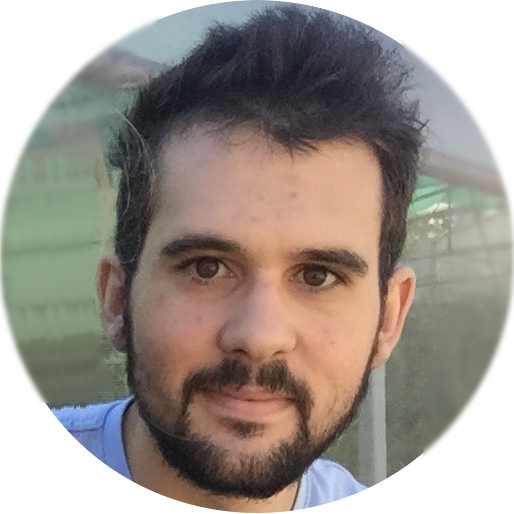
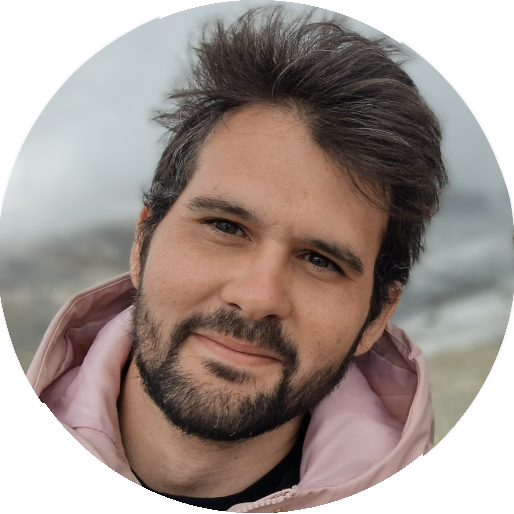
update

diff --git a/index.html b/index.html
@@ -29,7 +29,7 @@
   
     
   
-  <meta name="description" content="Research Associate">
+  <meta name="description" content="Research Engineer">
 
   
   <link rel="alternate" hreflang="en-us" href="https://dune-jr.github.io/">
@@ -121,7 +121,7 @@
   <meta property="og:site_name" content="Jordy Ruiz">
   <meta property="og:url" content="https://dune-jr.github.io/">
   <meta property="og:title" content="Jordy Ruiz">
-  <meta property="og:description" content="Research Associate"><meta property="og:image" content="https://dune-jr.github.io/img/icon-192.png">
+  <meta property="og:description" content="Research Engineer"><meta property="og:image" content="https://dune-jr.github.io/img/icon-192.png">
   <meta property="og:locale" content="en-us">
   
   <meta property="og:updated_time" content="2019-01-13T00:00:00&#43;00:00">
@@ -358,23 +358,23 @@
 
       
       
-      <img class="portrait" src="/author/admin/avatar_hua27577cd782c22b6c5cb4936b367cf9a_266636_250x250_fill_box_center_2.png" itemprop="image" alt="Avatar">
+      <img class="portrait" src="/author/admin/avatar_hufc90760be11d1c79b2024035c7da02e3_347494_250x250_fill_box_center_2.png" itemprop="image" alt="Avatar">
       
 
       <div class="portrait-title">
         <h2 itemprop="name">Jordy Ruiz</h2>
-        <h3 itemprop="jobTitle">Research Associate</h3>
+        <h3 itemprop="jobTitle">Research Engineer</h3>
 
         
         <h3 itemprop="worksFor" itemscope itemtype="http://schema.org/Organization">
-          <a href="http://www.imperial.ac.uk" target="_blank" itemprop="url" rel="noopener">
-          <span itemprop="name">Imperial College London</span>
+          <a href="https://statinf.fr/" target="_blank" itemprop="url" rel="noopener">
+          <span itemprop="name">StatInf</span>
           </a>
         </h3>
         
         <h3 itemprop="worksFor" itemscope itemtype="http://schema.org/Organization">
-          <a href="http://www.imperial.ac.uk/computing" target="_blank" itemprop="url" rel="noopener">
-          <span itemprop="name">Department of Computing</span>
+          <a href="https://statinf.fr/team" target="_blank" itemprop="url" rel="noopener">
+          <span itemprop="name">Software Team</span>
           </a>
         </h3>
         
@@ -458,7 +458,7 @@
           
         
         <li>
-          <a itemprop="sameAs" href="https://github.com/dune-jr" target="_blank" rel="noopener">
+          <a itemprop="sameAs" href="https://github.com/jordr" target="_blank" rel="noopener">
             <i class="fab fa-github big-icon"></i>
           </a>
         </li>
@@ -489,9 +489,11 @@
     
     <h1>About me</h1>
 
-    <p>I am currently a Research Associate in the <a href="http://srg.doc.ic.ac.uk/" target="_blank">Software Reliability Group</a> at <a href="http://www.ic.ac.uk/" target="_blank">Imperial College London</a>, under the direction of <a href="https://www.doc.ic.ac.uk/~cristic/" target="_blank">Pr Cristian Cadar</a>. For now, I am experimenting with the <a href="https://srg.doc.ic.ac.uk/projects/chopper/" target="_blank">Chopper</a> tool in order to automate the selection of skipped code regions.</p>
+    <p>I am the Lead Software Developer at <a href="https://statinf.fr" target="_blank">StatInf</a>. Together with <a href="https://statinf.fr/team" target="_blank">a team of five</a>, we develop RocqStat, a patented statistical timing analysis tool. I coordinate the collaborative development of the team and interface with R&amp;D, Product and Corporate. I am also in charge of the support for our assembly code program analysis modules, extracting the semantics of the program directly from the <a href="https://en.wikipedia.org/wiki/Executable_and_Linkable_Format" target="_blank">ELF files</a>, for a variety of architectures (ARMv7-Thumb2, ARMv9, PPC, Texas Instruments&hellip;).</p>
 
-<p>Last year, I was a postdoctoral researcher at <a href="https://www.univ-lille.fr/" target="_blank">University of Lille</a>, in the <a href="https://www.cristal.univ-lille.fr/?lang=en" target="_blank">CRIStAL labs</a>. My research work revolved around techniques, algorithms and abstractions for the static analysis of binary code, and a better understanding of its underlying structures. When not on a whiteboard, I would develop prototypes for the <a href="http://otawa.fr/" target="_blank">OTAWA</a> WCET tool, or teach at the <a href="http://www.polytech-lille.fr/" target="_blank">Polytech</a> engineering school.</p>
+<p>Previously, I was a Research Associate in the <a href="http://srg.doc.ic.ac.uk/" target="_blank">Software Reliability Group</a> at <a href="http://www.ic.ac.uk/" target="_blank">Imperial College London</a>, under the direction of <a href="https://www.doc.ic.ac.uk/~cristic/" target="_blank">Pr Cristian Cadar</a>, automating the <a href="https://srg.doc.ic.ac.uk/projects/chopper/" target="_blank">Chopper</a> tool for automatic patch testing.</p>
+
+<p>Before, I was a postdoctoral researcher at <a href="https://www.univ-lille.fr/" target="_blank">University of Lille</a>, in the <a href="https://www.cristal.univ-lille.fr/?lang=en" target="_blank">CRIStAL labs</a>. My research work revolved around techniques, algorithms and abstractions for the static analysis of binary code, and a better understanding of its underlying structures. When not on a whiteboard, I would develop prototypes for the <a href="http://otawa.fr/" target="_blank">OTAWA</a> WCET tool, or teach at the <a href="http://www.polytech-lille.fr/" target="_blank">Polytech</a> engineering school.</p>
 
 <p>I received my PhD in static program analysis at age 24 from the <a href="http://www.univ-tlse3.fr/" target="_blank">University of Toulouse III</a> where I was delighted to work closely with <a href="https://www.researchgate.net/profile/Hugues_Casse" target="_blank">Hugues Cassé</a> on OTAWA. I engineered <a href="/docs/running_pathfinder">PathFinder</a>, a tool for infeasible path detection on binary code, which parses the <a href="https://en.wikipedia.org/wiki/Control_flow_graph" target="_blank">graph representation</a> of a program and looks for impossible execution paths. It outputs data flow properties that provably tighten <a href="https://en.wikipedia.org/wiki/Worst-case_execution_time" target="_blank">WCET estimations</a>, necessary to safely develop critical systems, namely <a href="http://www.esa.int/TEC/Software_engineering_and_standardisation/TEC6NBUXBQE_0.html" target="_blank">in aeronautics and space</a>.</p>
 
@@ -503,11 +505,15 @@
         <h3>Interests</h3>
         <ul class="ul-interests">
           
-          <li>Static Binary Code Analysis</li>
+          <li>Binary Code Analysis</li>
+          
+          <li>Embedded Systems</li>
           
           <li>Abstract Interpretation</li>
           
-          <li>Mathematical Abstractions</li>
+          <li>Clever Abstractions</li>
+          
+          <li>Simplicity</li>
           
           <li>(Formal) Proofs</li>
           
@@ -925,7 +931,7 @@
     
   </div>
   <div class="col-12 col-lg-8">
-    <p>My CV is available in <a href="../cv.html">HTML</a> or <a href="../Resume_RUIZ.pdf">PDF</a> form.</p>
+    <p>My CV is available in <del>HTML</del> or <a href="../cv.pdf">PDF format</a>.</p>
 
   </div>
   
@@ -959,6 +965,8 @@
 </ul>
 
 <p>Previously, at <a href="http://www.univ-tlse3.fr" target="_blank">Université Toulouse III</a>, I taught 214 hours of practical courses during the 2014-2017 years, at all levels from freshman to last year, including the topics of: algorithmics, logic, programming in C, Java, Python, OCaml, Ada, ARM assembly, compiling techniques and theories.</p>
+
+<p>Last updated: 2019.</p>
 
   </div>
   

diff --git a/authors/admin/index.html b/authors/admin/index.html
@@ -28,7 +28,7 @@
   
     
   
-  <meta name="description" content="Research Associate">
+  <meta name="description" content="Research Engineer">
 
   
   <link rel="alternate" hreflang="en-us" href="https://dune-jr.github.io/authors/admin/">
@@ -120,7 +120,7 @@
   <meta property="og:site_name" content="Jordy Ruiz">
   <meta property="og:url" content="https://dune-jr.github.io/authors/admin/">
   <meta property="og:title" content="admin | Jordy Ruiz">
-  <meta property="og:description" content="Research Associate"><meta property="og:image" content="https://dune-jr.github.io/img/icon-192.png">
+  <meta property="og:description" content="Research Engineer"><meta property="og:image" content="https://dune-jr.github.io/img/icon-192.png">
   <meta property="og:locale" content="en-us">
   
   
@@ -351,23 +351,23 @@
 
       
       
-      <img class="portrait" src="/author/admin/avatar_hua27577cd782c22b6c5cb4936b367cf9a_266636_250x250_fill_box_center_2.png" itemprop="image" alt="Avatar">
+      <img class="portrait" src="/author/admin/avatar_hufc90760be11d1c79b2024035c7da02e3_347494_250x250_fill_box_center_2.png" itemprop="image" alt="Avatar">
       
 
       <div class="portrait-title">
         <h2 itemprop="name">Jordy Ruiz</h2>
-        <h3 itemprop="jobTitle">Research Associate</h3>
+        <h3 itemprop="jobTitle">Research Engineer</h3>
 
         
         <h3 itemprop="worksFor" itemscope itemtype="http://schema.org/Organization">
-          <a href="http://www.imperial.ac.uk" target="_blank" itemprop="url" rel="noopener">
-          <span itemprop="name">Imperial College London</span>
+          <a href="https://statinf.fr/" target="_blank" itemprop="url" rel="noopener">
+          <span itemprop="name">StatInf</span>
           </a>
         </h3>
         
         <h3 itemprop="worksFor" itemscope itemtype="http://schema.org/Organization">
-          <a href="http://www.imperial.ac.uk/computing" target="_blank" itemprop="url" rel="noopener">
-          <span itemprop="name">Department of Computing</span>
+          <a href="https://statinf.fr/team" target="_blank" itemprop="url" rel="noopener">
+          <span itemprop="name">Software Team</span>
           </a>
         </h3>
         
@@ -451,7 +451,7 @@
           
         
         <li>
-          <a itemprop="sameAs" href="https://github.com/dune-jr" target="_blank" rel="noopener">
+          <a itemprop="sameAs" href="https://github.com/jordr" target="_blank" rel="noopener">
             <i class="fab fa-github big-icon"></i>
           </a>
         </li>
@@ -482,9 +482,11 @@
     
     
 
-    <p>I am currently a Research Associate in the <a href="http://srg.doc.ic.ac.uk/" target="_blank">Software Reliability Group</a> at <a href="http://www.ic.ac.uk/" target="_blank">Imperial College London</a>, under the direction of <a href="https://www.doc.ic.ac.uk/~cristic/" target="_blank">Pr Cristian Cadar</a>. For now, I am experimenting with the <a href="https://srg.doc.ic.ac.uk/projects/chopper/" target="_blank">Chopper</a> tool in order to automate the selection of skipped code regions.</p>
+    <p>I am the Lead Software Developer at <a href="https://statinf.fr" target="_blank">StatInf</a>. Together with <a href="https://statinf.fr/team" target="_blank">a team of five</a>, we develop RocqStat, a patented statistical timing analysis tool. I coordinate the collaborative development of the team and interface with R&amp;D, Product and Corporate. I am also in charge of the support for our assembly code program analysis modules, extracting the semantics of the program directly from the <a href="https://en.wikipedia.org/wiki/Executable_and_Linkable_Format" target="_blank">ELF files</a>, for a variety of architectures (ARMv7-Thumb2, ARMv9, PPC, Texas Instruments&hellip;).</p>
 
-<p>Last year, I was a postdoctoral researcher at <a href="https://www.univ-lille.fr/" target="_blank">University of Lille</a>, in the <a href="https://www.cristal.univ-lille.fr/?lang=en" target="_blank">CRIStAL labs</a>. My research work revolved around techniques, algorithms and abstractions for the static analysis of binary code, and a better understanding of its underlying structures. When not on a whiteboard, I would develop prototypes for the <a href="http://otawa.fr/" target="_blank">OTAWA</a> WCET tool, or teach at the <a href="http://www.polytech-lille.fr/" target="_blank">Polytech</a> engineering school.</p>
+<p>Previously, I was a Research Associate in the <a href="http://srg.doc.ic.ac.uk/" target="_blank">Software Reliability Group</a> at <a href="http://www.ic.ac.uk/" target="_blank">Imperial College London</a>, under the direction of <a href="https://www.doc.ic.ac.uk/~cristic/" target="_blank">Pr Cristian Cadar</a>, automating the <a href="https://srg.doc.ic.ac.uk/projects/chopper/" target="_blank">Chopper</a> tool for automatic patch testing.</p>
+
+<p>Before, I was a postdoctoral researcher at <a href="https://www.univ-lille.fr/" target="_blank">University of Lille</a>, in the <a href="https://www.cristal.univ-lille.fr/?lang=en" target="_blank">CRIStAL labs</a>. My research work revolved around techniques, algorithms and abstractions for the static analysis of binary code, and a better understanding of its underlying structures. When not on a whiteboard, I would develop prototypes for the <a href="http://otawa.fr/" target="_blank">OTAWA</a> WCET tool, or teach at the <a href="http://www.polytech-lille.fr/" target="_blank">Polytech</a> engineering school.</p>
 
 <p>I received my PhD in static program analysis at age 24 from the <a href="http://www.univ-tlse3.fr/" target="_blank">University of Toulouse III</a> where I was delighted to work closely with <a href="https://www.researchgate.net/profile/Hugues_Casse" target="_blank">Hugues Cassé</a> on OTAWA. I engineered <a href="/docs/running_pathfinder">PathFinder</a>, a tool for infeasible path detection on binary code, which parses the <a href="https://en.wikipedia.org/wiki/Control_flow_graph" target="_blank">graph representation</a> of a program and looks for impossible execution paths. It outputs data flow properties that provably tighten <a href="https://en.wikipedia.org/wiki/Worst-case_execution_time" target="_blank">WCET estimations</a>, necessary to safely develop critical systems, namely <a href="http://www.esa.int/TEC/Software_engineering_and_standardisation/TEC6NBUXBQE_0.html" target="_blank">in aeronautics and space</a>.</p>
 
@@ -496,11 +498,15 @@
         <h3>Interests</h3>
         <ul class="ul-interests">
           
-          <li>Static Binary Code Analysis</li>
+          <li>Binary Code Analysis</li>
+          
+          <li>Embedded Systems</li>
           
           <li>Abstract Interpretation</li>
           
-          <li>Mathematical Abstractions</li>
+          <li>Clever Abstractions</li>
+          
+          <li>Simplicity</li>
           
           <li>(Formal) Proofs</li>
           

diff --git a/teaching/experience/index.html b/teaching/experience/index.html
@@ -474,12 +474,12 @@
 <div class="media author-card" itemscope itemtype="http://schema.org/Person">
   
   
-  <img class="portrait mr-3" src="/author/admin/avatar_hua27577cd782c22b6c5cb4936b367cf9a_266636_250x250_fill_box_center_2.png" itemprop="image" alt="Avatar">
+  <img class="portrait mr-3" src="/author/admin/avatar_hufc90760be11d1c79b2024035c7da02e3_347494_250x250_fill_box_center_2.png" itemprop="image" alt="Avatar">
   
 
   <div class="media-body">
     <h5 class="card-title" itemprop="name"><a href="/authors/admin">Jordy Ruiz</a></h5>
-    <h6 class="card-subtitle">Research Associate</h6>
+    <h6 class="card-subtitle">Research Engineer</h6>
     
     <ul class="network-icon" aria-hidden="true">
       
@@ -557,7 +557,7 @@
         
       
       <li>
-        <a itemprop="sameAs" href="https://github.com/dune-jr" target="_blank" rel="noopener">
+        <a itemprop="sameAs" href="https://github.com/jordr" target="_blank" rel="noopener">
           <i class="fab fa-github"></i>
         </a>
       </li>

diff --git a/authors/clément-ballabriga/index.html b/authors/clément-ballabriga/index.html
@@ -28,7 +28,7 @@
   
     
   
-  <meta name="description" content="Research Associate">
+  <meta name="description" content="Research Engineer">
 
   
   <link rel="alternate" hreflang="en-us" href="https://dune-jr.github.io/authors/cl%C3%A9ment-ballabriga/">
@@ -120,7 +120,7 @@
   <meta property="og:site_name" content="Jordy Ruiz">
   <meta property="og:url" content="https://dune-jr.github.io/authors/cl%C3%A9ment-ballabriga/">
   <meta property="og:title" content="Clément Ballabriga | Jordy Ruiz">
-  <meta property="og:description" content="Research Associate"><meta property="og:image" content="https://dune-jr.github.io/img/icon-192.png">
+  <meta property="og:description" content="Research Engineer"><meta property="og:image" content="https://dune-jr.github.io/img/icon-192.png">
   <meta property="og:locale" content="en-us">
   
   <meta property="og:updated_time" content="2019-01-13T00:00:00&#43;00:00">

diff --git a/authors/marianne-de-michiel/index.html b/authors/marianne-de-michiel/index.html
@@ -28,7 +28,7 @@
   
     
   
-  <meta name="description" content="Research Associate">
+  <meta name="description" content="Research Engineer">
 
   
   <link rel="alternate" hreflang="en-us" href="https://dune-jr.github.io/authors/marianne-de-michiel/">
@@ -120,7 +120,7 @@
   <meta property="og:site_name" content="Jordy Ruiz">
   <meta property="og:url" content="https://dune-jr.github.io/authors/marianne-de-michiel/">
   <meta property="og:title" content="Marianne De Michiel | Jordy Ruiz">
-  <meta property="og:description" content="Research Associate"><meta property="og:image" content="https://dune-jr.github.io/img/icon-192.png">
+  <meta property="og:description" content="Research Engineer"><meta property="og:image" content="https://dune-jr.github.io/img/icon-192.png">
   <meta property="og:locale" content="en-us">
   
   <meta property="og:updated_time" content="2017-09-18T00:00:00&#43;01:00">

diff --git a/authors/hugues-cassé/index.html b/authors/hugues-cassé/index.html
@@ -28,7 +28,7 @@
   
     
   
-  <meta name="description" content="Research Associate">
+  <meta name="description" content="Research Engineer">
 
   
   <link rel="alternate" hreflang="en-us" href="https://dune-jr.github.io/authors/hugues-cass%C3%A9/">
@@ -120,7 +120,7 @@
   <meta property="og:site_name" content="Jordy Ruiz">
   <meta property="og:url" content="https://dune-jr.github.io/authors/hugues-cass%C3%A9/">
   <meta property="og:title" content="Hugues Cassé | Jordy Ruiz">
-  <meta property="og:description" content="Research Associate"><meta property="og:image" content="https://dune-jr.github.io/img/icon-192.png">
+  <meta property="og:description" content="Research Engineer"><meta property="og:image" content="https://dune-jr.github.io/img/icon-192.png">
   <meta property="og:locale" content="en-us">
   
   <meta property="og:updated_time" content="2017-09-18T00:00:00&#43;01:00">

diff --git a/authors/giuseppe-lipari/index.html b/authors/giuseppe-lipari/index.html
@@ -28,7 +28,7 @@
   
     
   
-  <meta name="description" content="Research Associate">
+  <meta name="description" content="Research Engineer">
 
   
   <link rel="alternate" hreflang="en-us" href="https://dune-jr.github.io/authors/giuseppe-lipari/">
@@ -120,7 +120,7 @@
   <meta property="og:site_name" content="Jordy Ruiz">
   <meta property="og:url" content="https://dune-jr.github.io/authors/giuseppe-lipari/">
   <meta property="og:title" content="Giuseppe Lipari | Jordy Ruiz">
-  <meta property="og:description" content="Research Associate"><meta property="og:image" content="https://dune-jr.github.io/img/icon-192.png">
+  <meta property="og:description" content="Research Engineer"><meta property="og:image" content="https://dune-jr.github.io/img/icon-192.png">
   <meta property="og:locale" content="en-us">
   
   <meta property="og:updated_time" content="2019-01-13T00:00:00&#43;00:00">

diff --git a/authors/julien-forget/index.html b/authors/julien-forget/index.html
@@ -28,7 +28,7 @@
   
     
   
-  <meta name="description" content="Research Associate">
+  <meta name="description" content="Research Engineer">
 
   
   <link rel="alternate" hreflang="en-us" href="https://dune-jr.github.io/authors/julien-forget/">
@@ -120,7 +120,7 @@
   <meta property="og:site_name" content="Jordy Ruiz">
   <meta property="og:url" content="https://dune-jr.github.io/authors/julien-forget/">
   <meta property="og:title" content="Julien Forget | Jordy Ruiz">
-  <meta property="og:description" content="Research Associate"><meta property="og:image" content="https://dune-jr.github.io/img/icon-192.png">
+  <meta property="og:description" content="Research Engineer"><meta property="og:image" content="https://dune-jr.github.io/img/icon-192.png">
   <meta property="og:locale" content="en-us">
   
   <meta property="og:updated_time" content="2019-01-13T00:00:00&#43;00:00">

diff --git a/authors/laure-gonnord/index.html b/authors/laure-gonnord/index.html
@@ -28,7 +28,7 @@
   
     
   
-  <meta name="description" content="Research Associate">
+  <meta name="description" content="Research Engineer">
 
   
   <link rel="alternate" hreflang="en-us" href="https://dune-jr.github.io/authors/laure-gonnord/">
@@ -120,7 +120,7 @@
   <meta property="og:site_name" content="Jordy Ruiz">
   <meta property="og:url" content="https://dune-jr.github.io/authors/laure-gonnord/">
   <meta property="og:title" content="Laure Gonnord | Jordy Ruiz">
-  <meta property="og:description" content="Research Associate"><meta property="og:image" content="https://dune-jr.github.io/img/icon-192.png">
+  <meta property="og:description" content="Research Engineer"><meta property="og:image" content="https://dune-jr.github.io/img/icon-192.png">
   <meta property="og:locale" content="en-us">
   
   <meta property="og:updated_time" content="2019-01-13T00:00:00&#43;00:00">

diff --git a/publication_types/index.html b/publication_types/index.html
@@ -30,7 +30,7 @@
   
     
   
-  <meta name="description" content="Research Associate">
+  <meta name="description" content="Research Engineer">
 
   
   <link rel="alternate" hreflang="en-us" href="https://dune-jr.github.io/publication_types/">
@@ -122,7 +122,7 @@
   <meta property="og:site_name" content="Jordy Ruiz">
   <meta property="og:url" content="https://dune-jr.github.io/publication_types/">
   <meta property="og:title" content="Publication_types | Jordy Ruiz">
-  <meta property="og:description" content="Research Associate"><meta property="og:image" content="https://dune-jr.github.io/img/icon-192.png">
+  <meta property="og:description" content="Research Engineer"><meta property="og:image" content="https://dune-jr.github.io/img/icon-192.png">
   <meta property="og:locale" content="en-us">
   
   <meta property="og:updated_time" content="2019-01-13T00:00:00&#43;00:00">

diff --git a/authors/jordy-ruiz/index.html b/authors/jordy-ruiz/index.html
@@ -28,7 +28,7 @@
   
     
   
-  <meta name="description" content="Research Associate">
+  <meta name="description" content="Research Engineer">
 
   
   <link rel="alternate" hreflang="en-us" href="https://dune-jr.github.io/authors/jordy-ruiz/">
@@ -120,7 +120,7 @@
   <meta property="og:site_name" content="Jordy Ruiz">
   <meta property="og:url" content="https://dune-jr.github.io/authors/jordy-ruiz/">
   <meta property="og:title" content="Jordy Ruiz | Jordy Ruiz">
-  <meta property="og:description" content="Research Associate"><meta property="og:image" content="https://dune-jr.github.io/img/icon-192.png">
+  <meta property="og:description" content="Research Engineer"><meta property="og:image" content="https://dune-jr.github.io/img/icon-192.png">
   <meta property="og:locale" content="en-us">
   
   <meta property="og:updated_time" content="2019-01-13T00:00:00&#43;00:00">

diff --git a/publication_types/1/index.html b/publication_types/1/index.html
@@ -30,7 +30,7 @@
   
     
   
-  <meta name="description" content="Research Associate">
+  <meta name="description" content="Research Engineer">
 
   
   <link rel="alternate" hreflang="en-us" href="https://dune-jr.github.io/publication_types/1/">
@@ -122,7 +122,7 @@
   <meta property="og:site_name" content="Jordy Ruiz">
   <meta property="og:url" content="https://dune-jr.github.io/publication_types/1/">
   <meta property="og:title" content="1 | Jordy Ruiz">
-  <meta property="og:description" content="Research Associate"><meta property="og:image" content="https://dune-jr.github.io/img/icon-192.png">
+  <meta property="og:description" content="Research Engineer"><meta property="og:image" content="https://dune-jr.github.io/img/icon-192.png">
   <meta property="og:locale" content="en-us">
   
   <meta property="og:updated_time" content="2019-01-13T00:00:00&#43;00:00">
